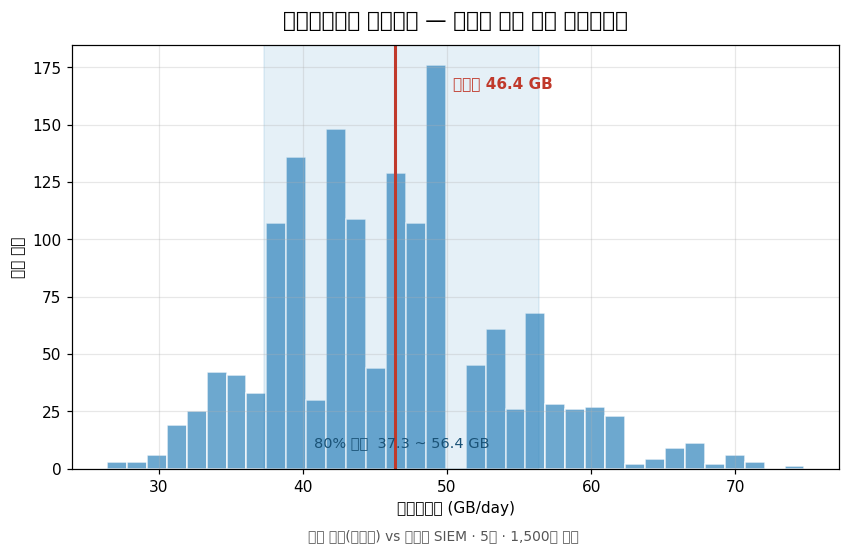
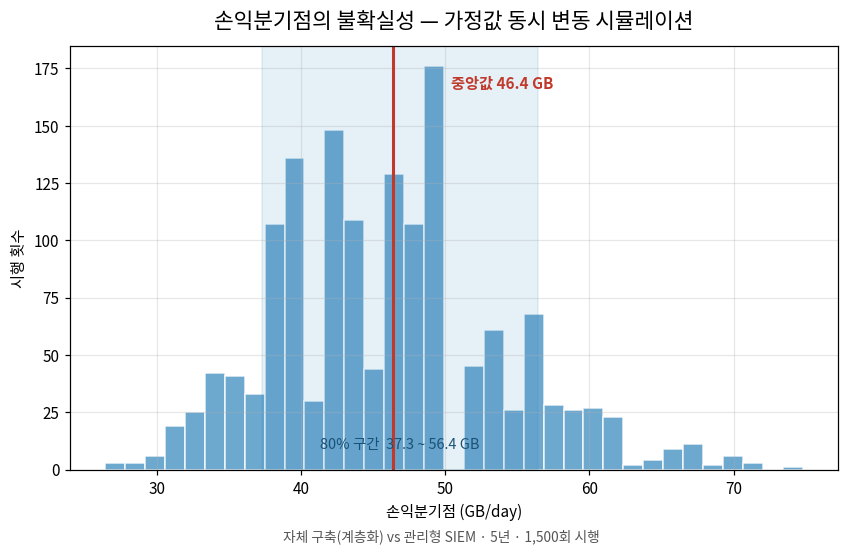
fix(charts): auto-select available Korean font across OS; regenerate charts to fix tofu (box) rendering

Changed region(s): [[0.0, 0.0, 1.0, 0.9819], [0.5212, 0.1227, 0.6745, 0.1841]]

diff --git a/src/make_charts.py b/src/make_charts.py
@@ -39,8 +39,36 @@ OUT.mkdir(parents=True, exist_ok=True)
 
 # --- 폰트 --------------------------------------------------------------------
 # 한글이 깨지면 차트가 무용지물이 되므로 폰트를 명시적으로 지정한다.
-KO_FONT = "Noto Sans CJK JP"   # CJK 통합 폰트로 한글 포함
+#
+# [환경 독립성] 하나의 폰트만 지정하면 그 폰트가 없는 환경에서 글자가 네모(□)로
+# 깨진다. 실제로 Noto 폰트가 없는 로컬에서 실행했을 때 이 문제가 발생했다.
+# 그래서 한글 폰트 후보를 우선순위대로 나열하고, 설치된 것 중 첫 번째를 쓴다.
+#   - Malgun Gothic : Windows 기본 (로컬 실행 대비)
+#   - AppleGothic   : macOS 기본
+#   - Noto Sans CJK : Linux/CI 환경
+#   - NanumGothic   : 리눅스에서 흔히 설치되는 한글 폰트
+import matplotlib.font_manager as fm
+
+KO_FONT_CANDIDATES = [
+    "Malgun Gothic", "AppleGothic",
+    "Noto Sans CJK KR", "Noto Sans CJK JP", "Noto Sans KR",
+    "NanumGothic", "NanumBarunGothic", "UnDotum",
+]
 EN_FONT = "DejaVu Sans"
+
+
+def _resolve_ko_font():
+    """설치된 폰트 중 첫 번째 한글 폰트를 찾는다. 없으면 경고하고 기본값 사용."""
+    installed = {f.name for f in fm.fontManager.ttflist}
+    for name in KO_FONT_CANDIDATES:
+        if name in installed:
+            return name
+    print("  [경고] 한글 폰트를 찾지 못했습니다. 한글이 깨질 수 있습니다.")
+    print(f"         시도한 후보: {', '.join(KO_FONT_CANDIDATES)}")
+    return EN_FONT
+
+
+KO_FONT = _resolve_ko_font()
 
 plt.rcParams["axes.unicode_minus"] = False
 plt.rcParams["figure.dpi"] = 110
